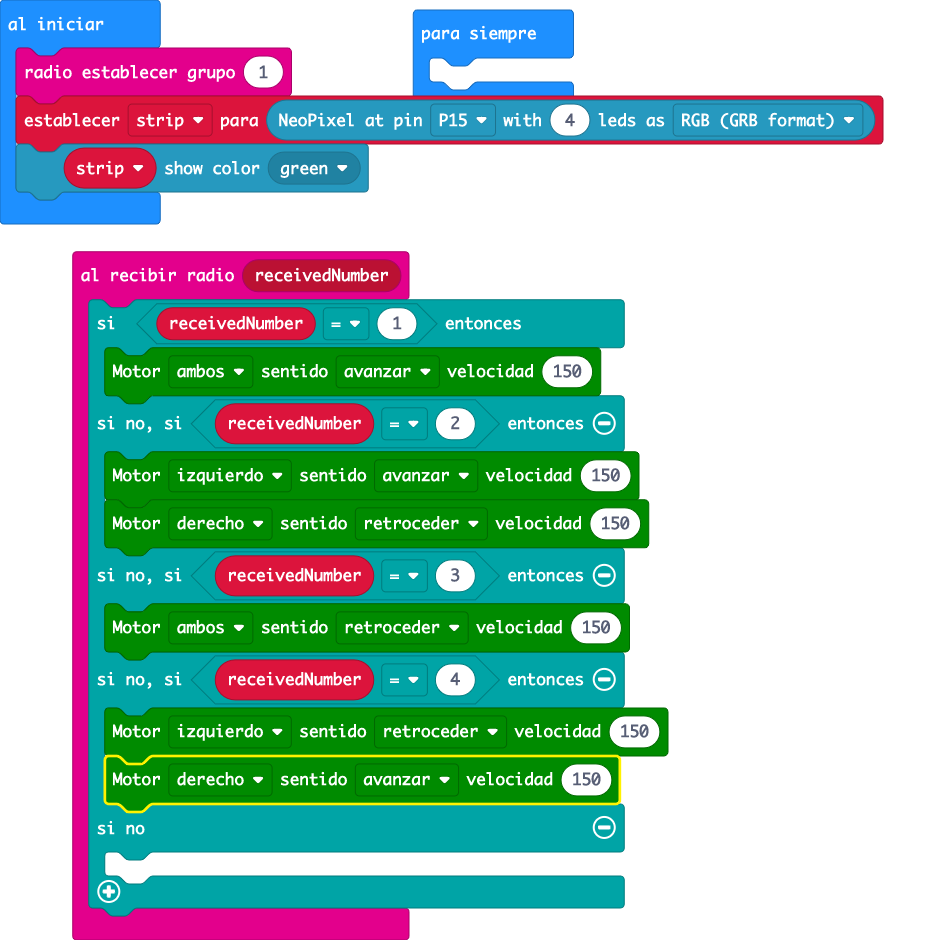
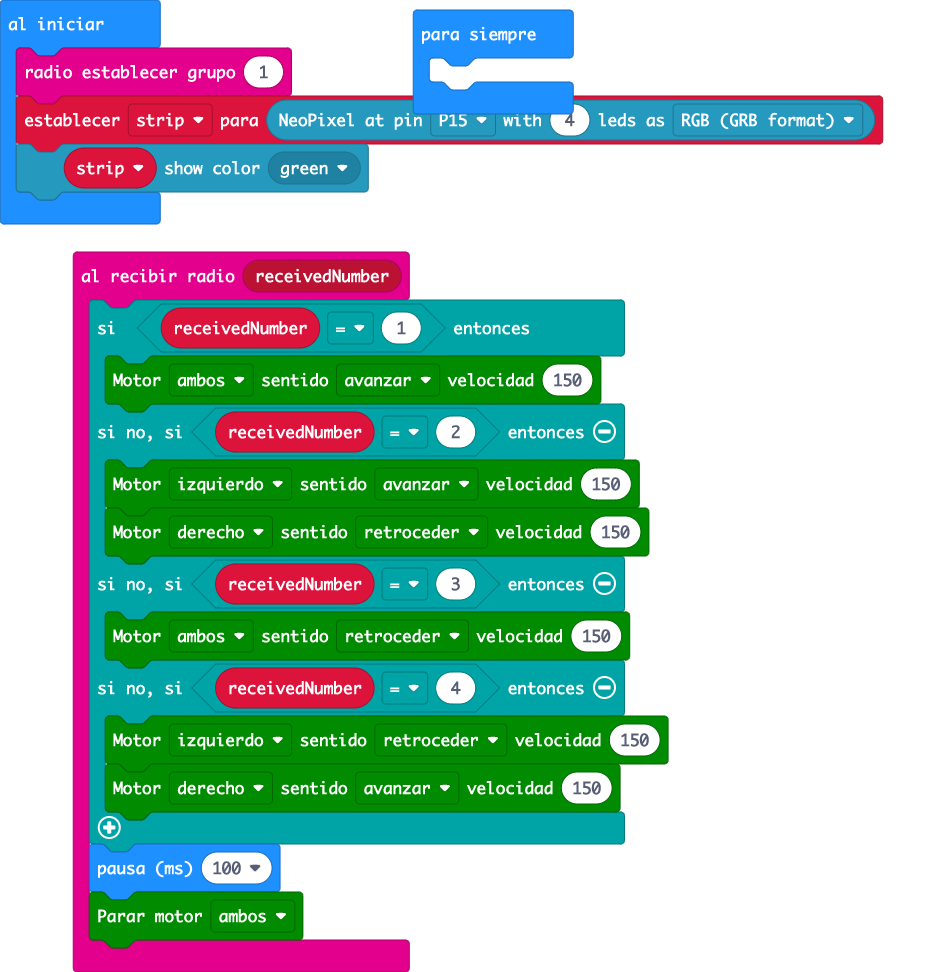
Actualizar main.blocks, main.ts

Changed region(s): [[0.0, 0.0, 0.9615, 0.9872]]

diff --git a/main.ts b/main.ts
@@ -9,9 +9,9 @@ radio.onReceivedNumber(function (receivedNumber) {
     } else if (receivedNumber == 4) {
         maqueen.motorRun(maqueen.Motors.M1, maqueen.Dir.CCW, 150)
         maqueen.motorRun(maqueen.Motors.M2, maqueen.Dir.CW, 150)
-    } else {
-    	
     }
+    basic.pause(100)
+    maqueen.motorStop(maqueen.Motors.All)
 })
 radio.setGroup(1)
 let strip = neopixel.create(DigitalPin.P15, 4, NeoPixelMode.RGB)
